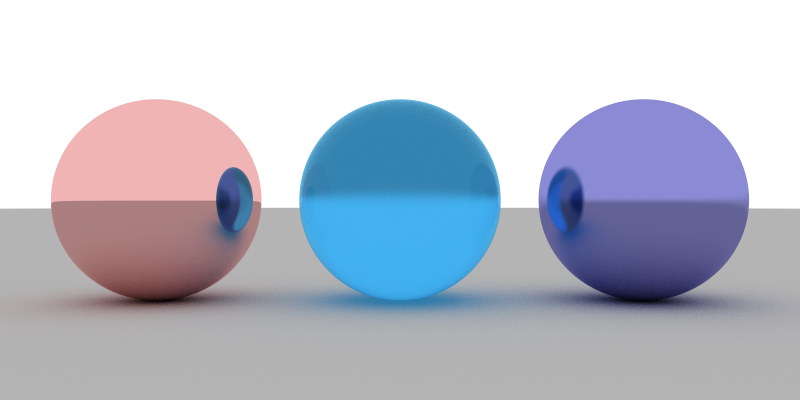
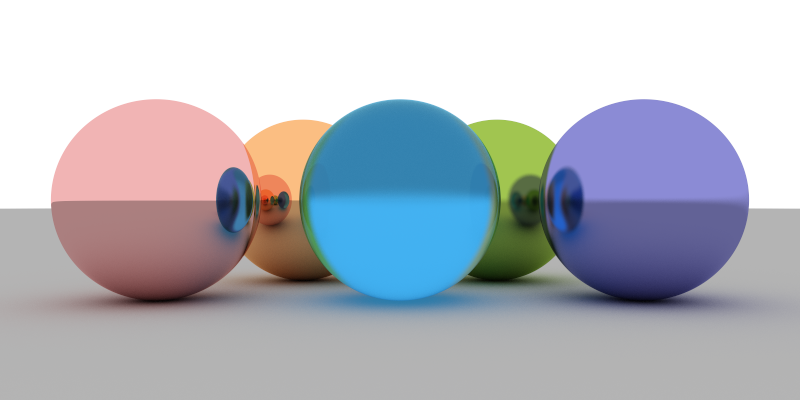
Update demo scene

Changed region(s): [[0.5625, 0.3, 0.7812, 0.75], [0.25, 0.3, 0.4375, 0.75]]

diff --git a/src/main.rs b/src/main.rs
@@ -368,7 +368,7 @@ impl Camera for SimpleCamera {
 }
 
 fn build_scene(config: &Config) -> World {
-    let s1 = Sphere {
+    let s_right_front = Sphere {
         center: Vector3::new(1.2, 0.0, -1.0),
         radius: 0.5,
         material: Box::new(Metal {
@@ -376,15 +376,7 @@ fn build_scene(config: &Config) -> World {
             gloss: 0.3,
         }),
     };
-    let s2 = Sphere {
-        center: Vector3::new(-1.2, 0.0, -1.0),
-        radius: 0.5,
-        material: Box::new(Metal {
-            albedo: Color::new(0.9, 0.5, 0.5),
-            gloss: 0.0,
-        }),
-    };
-    let s3 = Sphere {
+    let s_middle_front = Sphere {
         center: Vector3::new(0.0, 0.0, -1.0),
         radius: 0.5,
         material: Box::new(Dielectric {
@@ -394,7 +386,32 @@ fn build_scene(config: &Config) -> World {
             color: Color::new(0.2588, 0.702, 0.9567),
         }),
     };
-    let s4 = Sphere {
+    let s_left_front = Sphere {
+        center: Vector3::new(-1.2, 0.0, -1.0),
+        radius: 0.5,
+        material: Box::new(Metal {
+            albedo: Color::new(0.9, 0.5, 0.5),
+            gloss: 0.0,
+        }),
+    };
+    let s_right_back = Sphere {
+        center: Vector3::new(0.6, 0.0, -2.0),
+        radius: 0.5,
+        material: Box::new(Metal {
+            albedo: Color::new(0.4, 0.6, 0.1),
+            gloss: 0.4,
+        }),
+    };
+    let s_left_back = Sphere {
+        center: Vector3::new(-0.6, 0.0, -2.0),
+        radius: 0.5,
+        material: Box::new(Metal {
+            albedo: Color::new(0.97, 0.56, 0.26),
+            gloss: 0.0,
+        }),
+    };
+
+    let s_ground = Sphere {
         center: Vector3::new(0.0, -10000.5, -1.0),
         radius: 10000.0,
         material: Box::new(Lambertian {
@@ -411,10 +428,12 @@ fn build_scene(config: &Config) -> World {
 
     World {
         objects: vec![
-            Box::new(s1)
-            , Box::new(s2)
-            , Box::new(s3)
-            , Box::new(s4)
+            Box::new(s_left_front),
+            Box::new(s_middle_front),
+            Box::new(s_right_front),
+            Box::new(s_left_back),
+            Box::new(s_right_back),
+            Box::new(s_ground),
         ],
         background: Color::new(1.0, 1.0, 1.0),
         camera: Box::new(cam),
